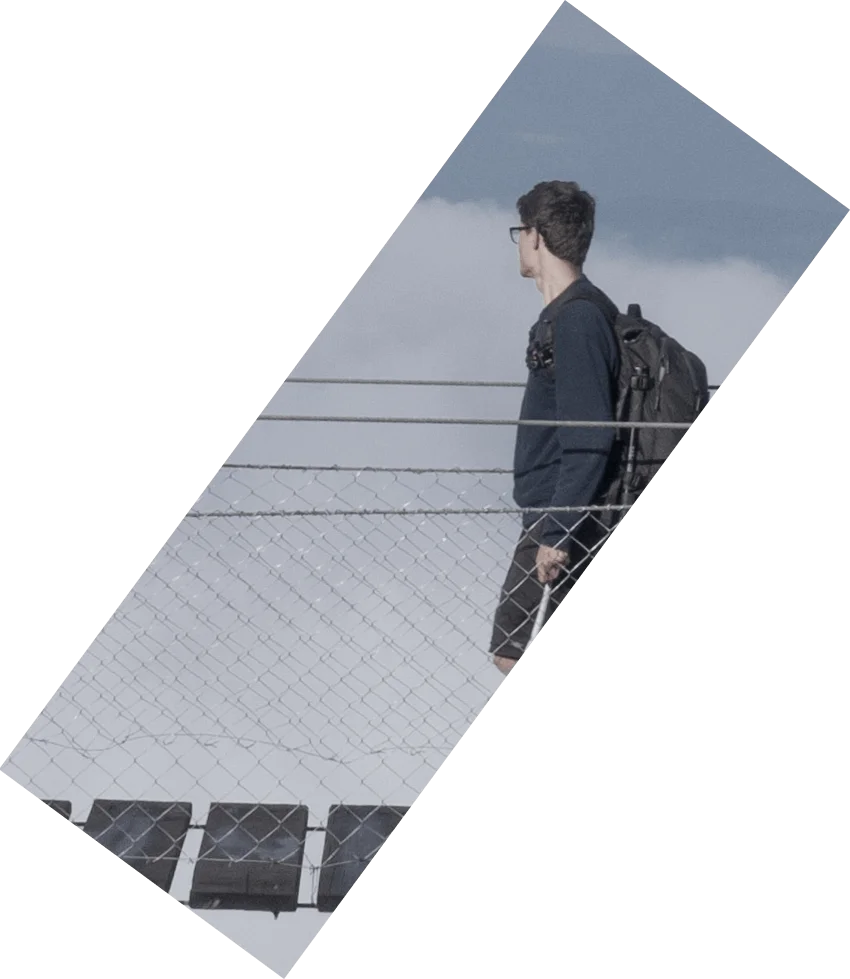
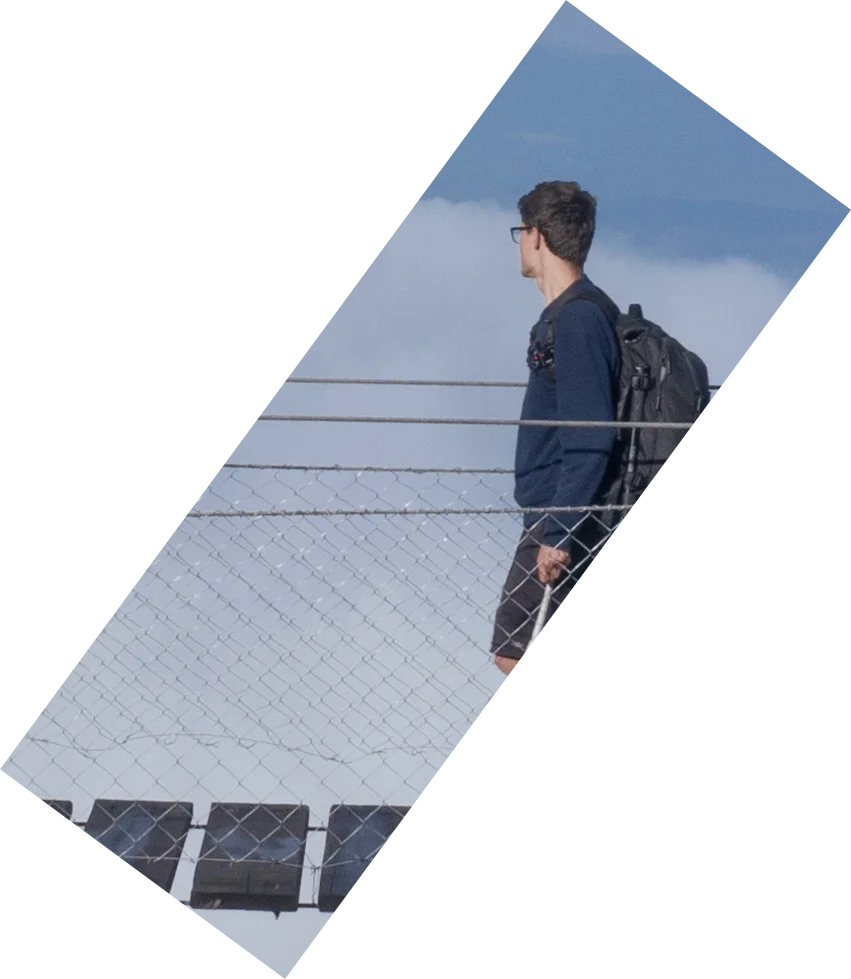
added color to background

Changed region(s): [[0.2141, 0.8274, 0.2447, 0.8887], [0.3671, 0.858, 0.3976, 0.8887]]

diff --git a/src/pages/Main/HeroSectionContent.jsx b/src/pages/Main/HeroSectionContent.jsx
@@ -141,7 +141,7 @@ const HeroSectionContent = ({
             height: '100vh',
             position: 'relative',
             // minHeight: 360,
-            minHeight:'calc(100vh - 56px)',
+            minHeight: 'calc(100vh - 56px)',
         }}>
             <Helmet>
                 <link rel="preload" as="image" href={'/assets/images/welcome-background.webp'} type="image/webp" />
@@ -149,16 +149,62 @@ const HeroSectionContent = ({
                 <link rel="preload" as="image" href={'/assets/images/welcome-section-piece-2.webp'} type="image/webp" />
                 <link rel="preload" as="image" href={'/assets/images/welcome-section-piece-3.webp'} type="image/webp" />
             </Helmet>
+            <div style={{
+                display: 'flex',
+                margin: 'auto',
+                transform: 'translateX(-50%)',
+                left: '50%',
+                top:10,
+                position: 'absolute',
+                zIndex: 10,
+                justifyContent: 'space-evenly',
+            }}>
+                <span style={{
+                    padding: 10,
+                    fontFamily: 'Mulish',
+                    color: '#fff',
+                    borderRadius: '50px',
+                    border: 'none',
+                    margin: '0 10px',
+                    zIndex: 10,
+                    height: 50,
+                    fontSize: winSize === 1 ? '0.8em' : '1.1em',
+                    fontWeight: 'bold',
+                    minWidth:190,
+                    letterSpacing:4,
+                    textAlign:'right',
+                    alignItems:'center',
+                    display:'inline-flex',
+                    justifyContent:'flex-end'
+                }}>H  I  T  C  H  I  N  G</span>
+                <Search
+                    photos={photos}
+                    videos={videos}
+                    posts={posts}
+                    winSize={winSize}
+                    countryThumbnails={countryThumbnails}
+                    isPageLoaded={isPageLoaded}
+                    setLastViewedSection={setLastViewedSection}
+                />
+                <span style={{
+                    padding: 10,
+                    fontFamily: 'Mulish',
+                    color: '#fff',
+                    borderRadius: '50px',
+                    border: 'none',
+                    margin: '0 10px',
+                    zIndex: 10,
+                    height: 50,
+                    fontSize:winSize === 1 ? '0.8em' : '1.1em',
+                    fontWeight: 'bold',
+                    minWidth:190,
+                    letterSpacing:4,
+                    alignItems:'center',
+                    display:'inline-flex',
+                    justifyContent:'flex-start'
+                }}>H  O  R  I  Z  O  N  S</span>
+            </div>
 
-            <Search
-                photos={photos}
-                videos={videos}
-                posts={posts}
-                winSize={winSize}
-                countryThumbnails={countryThumbnails}
-                isPageLoaded={isPageLoaded}
-                setLastViewedSection={setLastViewedSection}
-            />
 
             <img
                 src='/assets/images/welcome-background.webp'
@@ -171,9 +217,15 @@ const HeroSectionContent = ({
                 }} />
             {["One", "Two", "One"].map((piece, i) => {
                 let image;
-                if (i + 1 === 1) image = '/assets/images/welcome-section-piece-1.webp';
-                if (i + 1 === 2) image = '/assets/images/welcome-section-piece-2.webp';
-                if (i + 1 === 3) image = '/assets/images/welcome-section-piece-3.webp';
+                if (i + 1 === 1) image =
+                // '/assets/images/hero-section-pic-piece-1-black-and-white.png'
+                '/assets/images/welcome-section-piece-1.webp';
+                if (i + 1 === 2) image =
+                // '/assets/images/hero-section-pic-piece-2-black-and-white.png';
+                 '/assets/images/welcome-section-piece-2.webp';
+                if (i + 1 === 3) image = 
+                '/assets/images/welcome-section-piece-3.webp';
+                // '/assets/images/hero-section-pic-piece-3-black-and-white.png';
                 let ref;
                 if (i === 0) ref = heroPicPieceOneRef;
                 if (i === 1) ref = heroPicPieceTwoRef;
@@ -227,7 +279,8 @@ const HeroSectionContent = ({
                     fontFamily: 'Mulish,sans-serif',
                     borderRadius: 5,
                     padding: 10,
-                    background: 'rgb(123,123,123,0.2)',
+                    background: 'rgb(12,12,12,0.2)',
+                    fontWeight:'bold',
                 }} >
                     I'm Mourad - Adventure travel photographer,
                     videographer, blogger, and digital nomad. Join me as

diff --git a/src/pages/utility.js b/src/pages/utility.js
@@ -18,7 +18,7 @@ const heroSectionButtonBaseStyle = {
     background: 'rgb(255,255,255,0.9)',
     padding: 10,
     fontFamily: 'Mulish',
-    color: 'rgb(216,161,114)',
+    color: 'rgb(204, 134, 74)',
     borderRadius: '50px',
     border: 'none',
     margin: '0 10px',
@@ -45,8 +45,11 @@ export const getHeroSectionButtonOneStyle = (windowWidth, windowHeight) => {
         bottom = 265;
     }
     if (windowWidth === 2) {
-        right = 400;
-        bottom = 370;
+        right = 440;
+        bottom = 470;
+        width = 150;
+        height = 50;
+        fontSize = '1.1em';
     }
     if (windowWidth > 2) {
         right = 900;
@@ -93,7 +96,10 @@ export const getHeroSectionButtonTwoStyle = (windowWidth, windowHeight) => {
     }
     if (windowWidth === 2) {
         right = 120;
-        bottom = 100;
+        bottom = 340;
+        width = 150;
+        height = 50;
+        fontSize = '1.1em';
     }
     if (windowWidth > 2) {
         right = 270;

diff --git a/src/pages/Main/SearchResults.jsx b/src/pages/Main/SearchResults.jsx
@@ -147,14 +147,7 @@ const Search = React.memo(({ posts, photos, videos, countryThumbnails, winSize, 
 
     return (
         <div
-            style={{
-                margin: 'auto',
-                transform: 'translateX(-50%)',
-                left: '50%',
-                position: 'absolute',
-                ...getSearchInputStyle(winSize),
-                zIndex: 10
-            }}
+            style={getSearchInputStyle(winSize)}
             ref={wrapperRef}
         >
             <div className="search-box">
